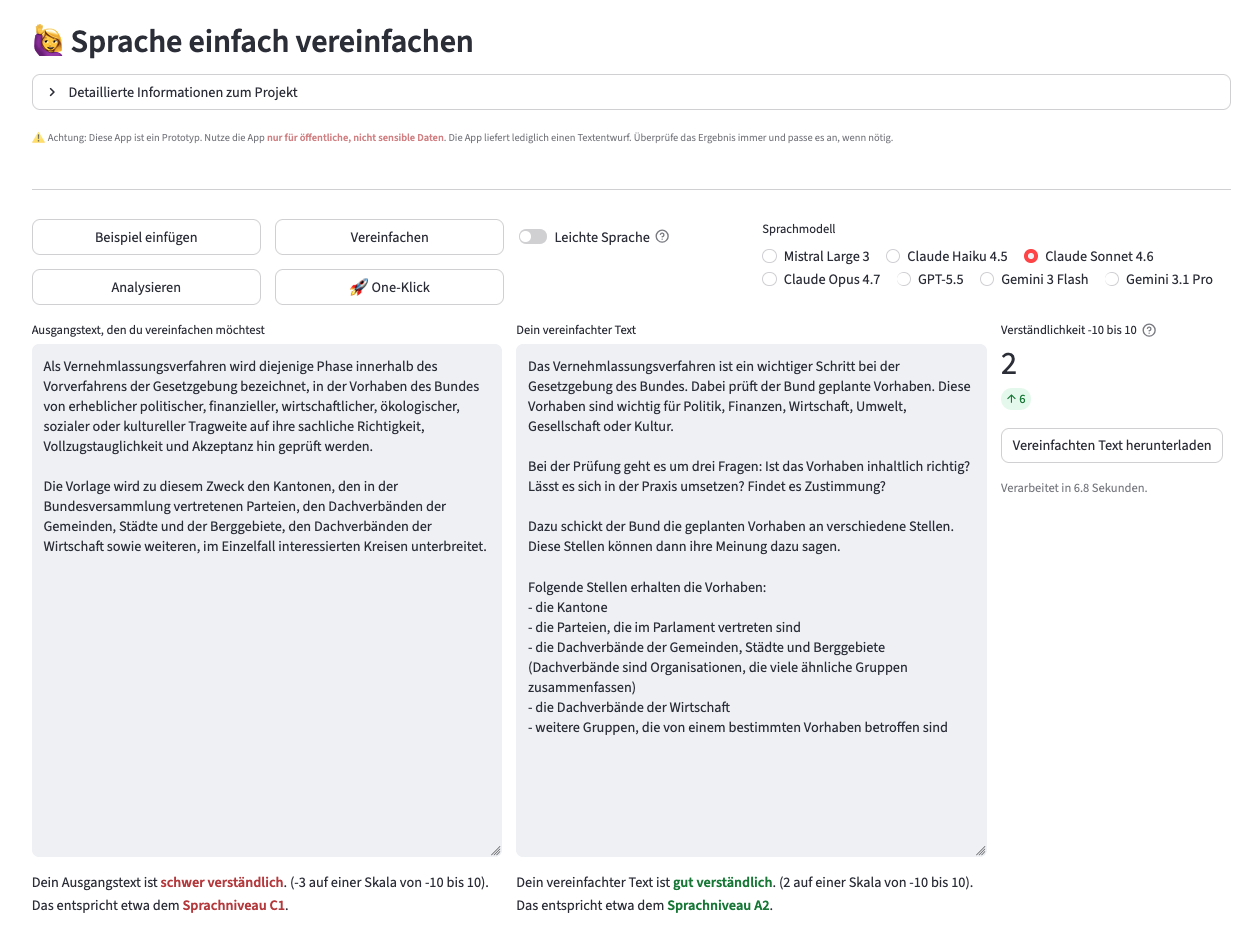
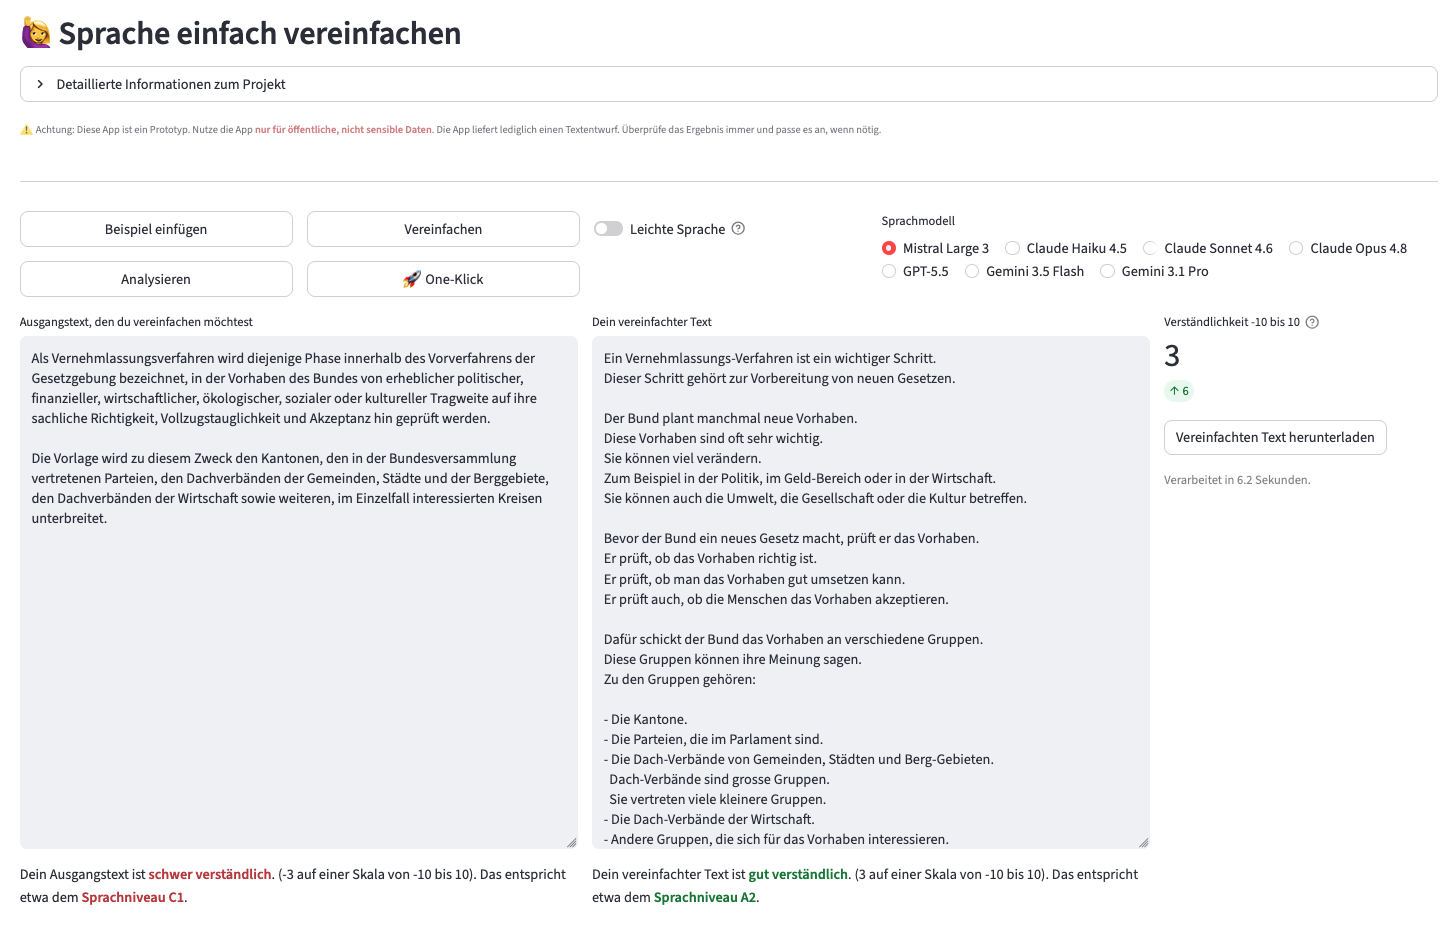
chore(release): update app version to 1.3.0 and document changes in utils_expander.md

diff --git a/_streamlit_app/utils_expander.md b/_streamlit_app/utils_expander.md
@@ -42,6 +42,7 @@ Wir sind für Rückmeldungen und Anregungen jeglicher Art dankbar und nehmen die
 
 ## Versionsverlauf
 
+- **v1.3** - 31.05.2026 - _App aktualisiert auf neueste Modelle. Verbesserungen._
 - **v1.2** - 09.05.2026 - _App aktualisiert auf neueste Modelle. Alte Zusatzversion entfernt. Kleinere Verbesserungen._
 - **v1.1** - 07.12.2025 - _App aktualisiert auf neueste Modelle. Kleinere Verbesserungen._
 - **v1.0** - 13.07.2025 - _App aktualisiert und umgeschrieben auf OpenRouter. Ältere App-Versionen entfernt._